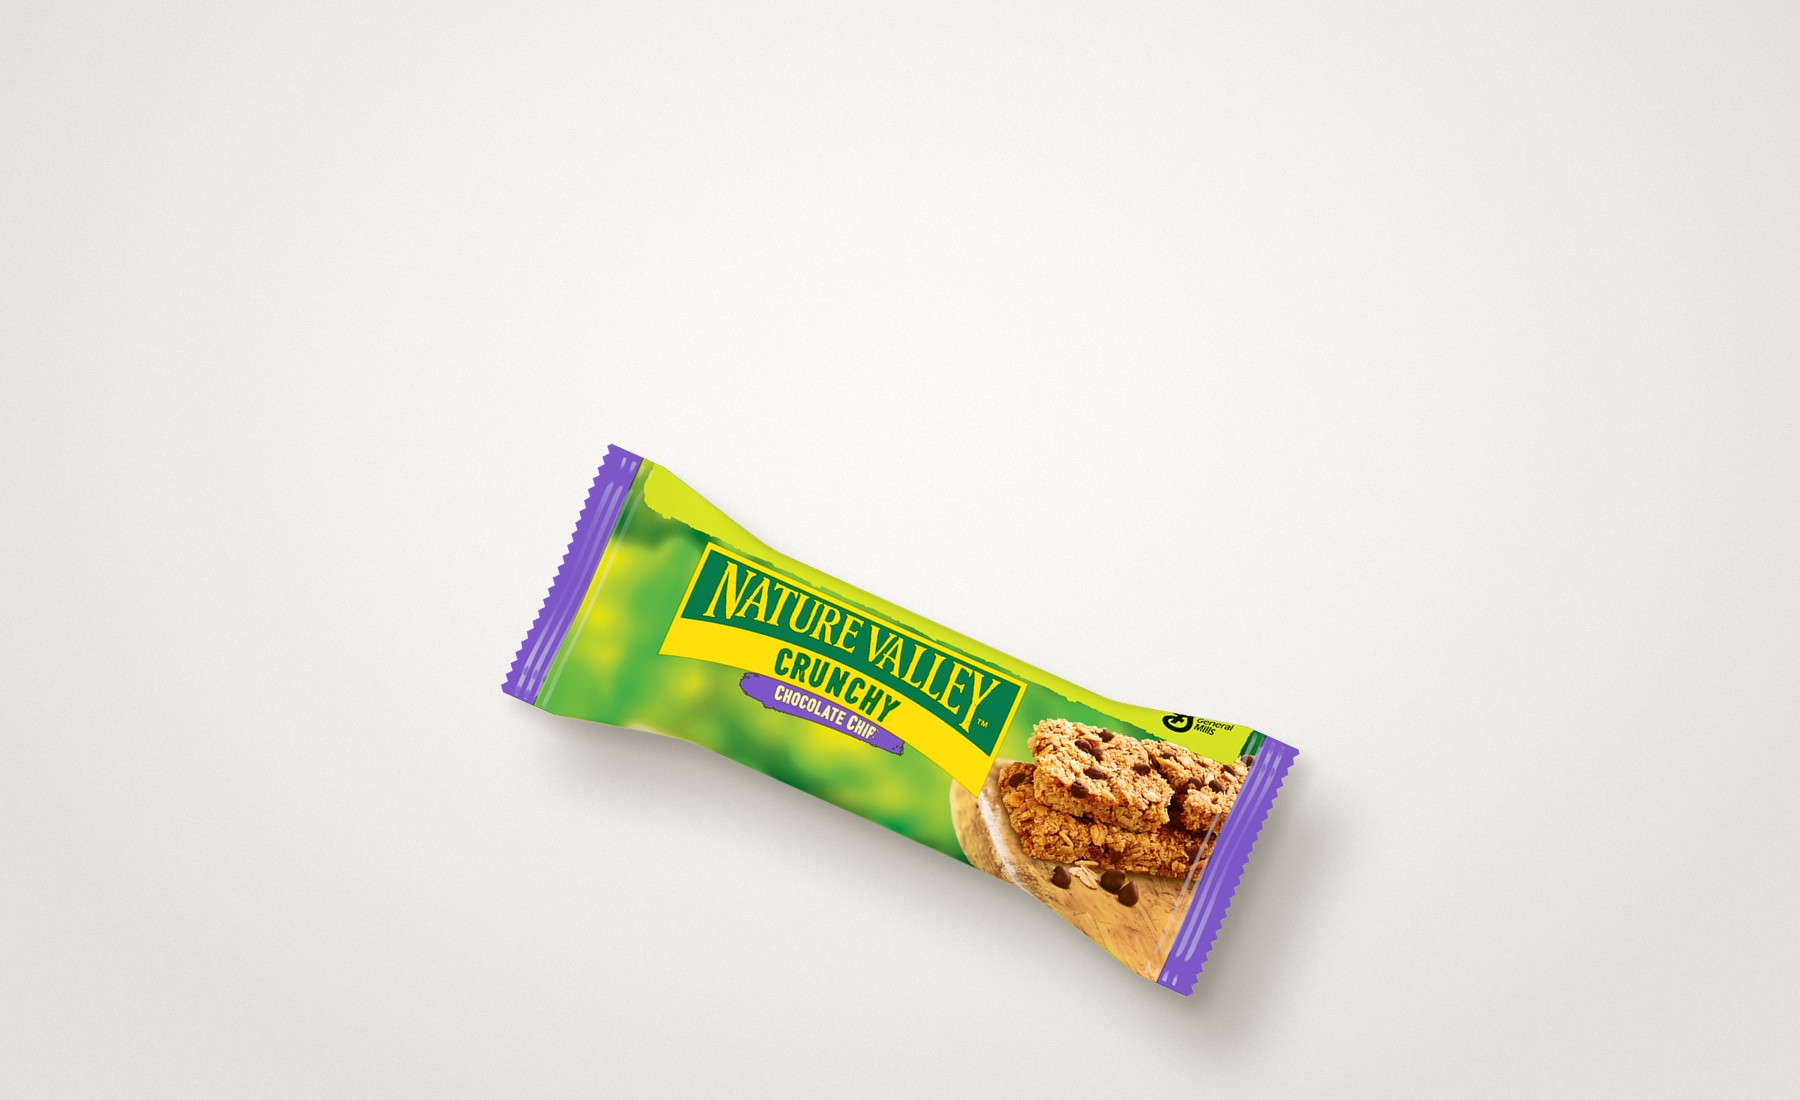
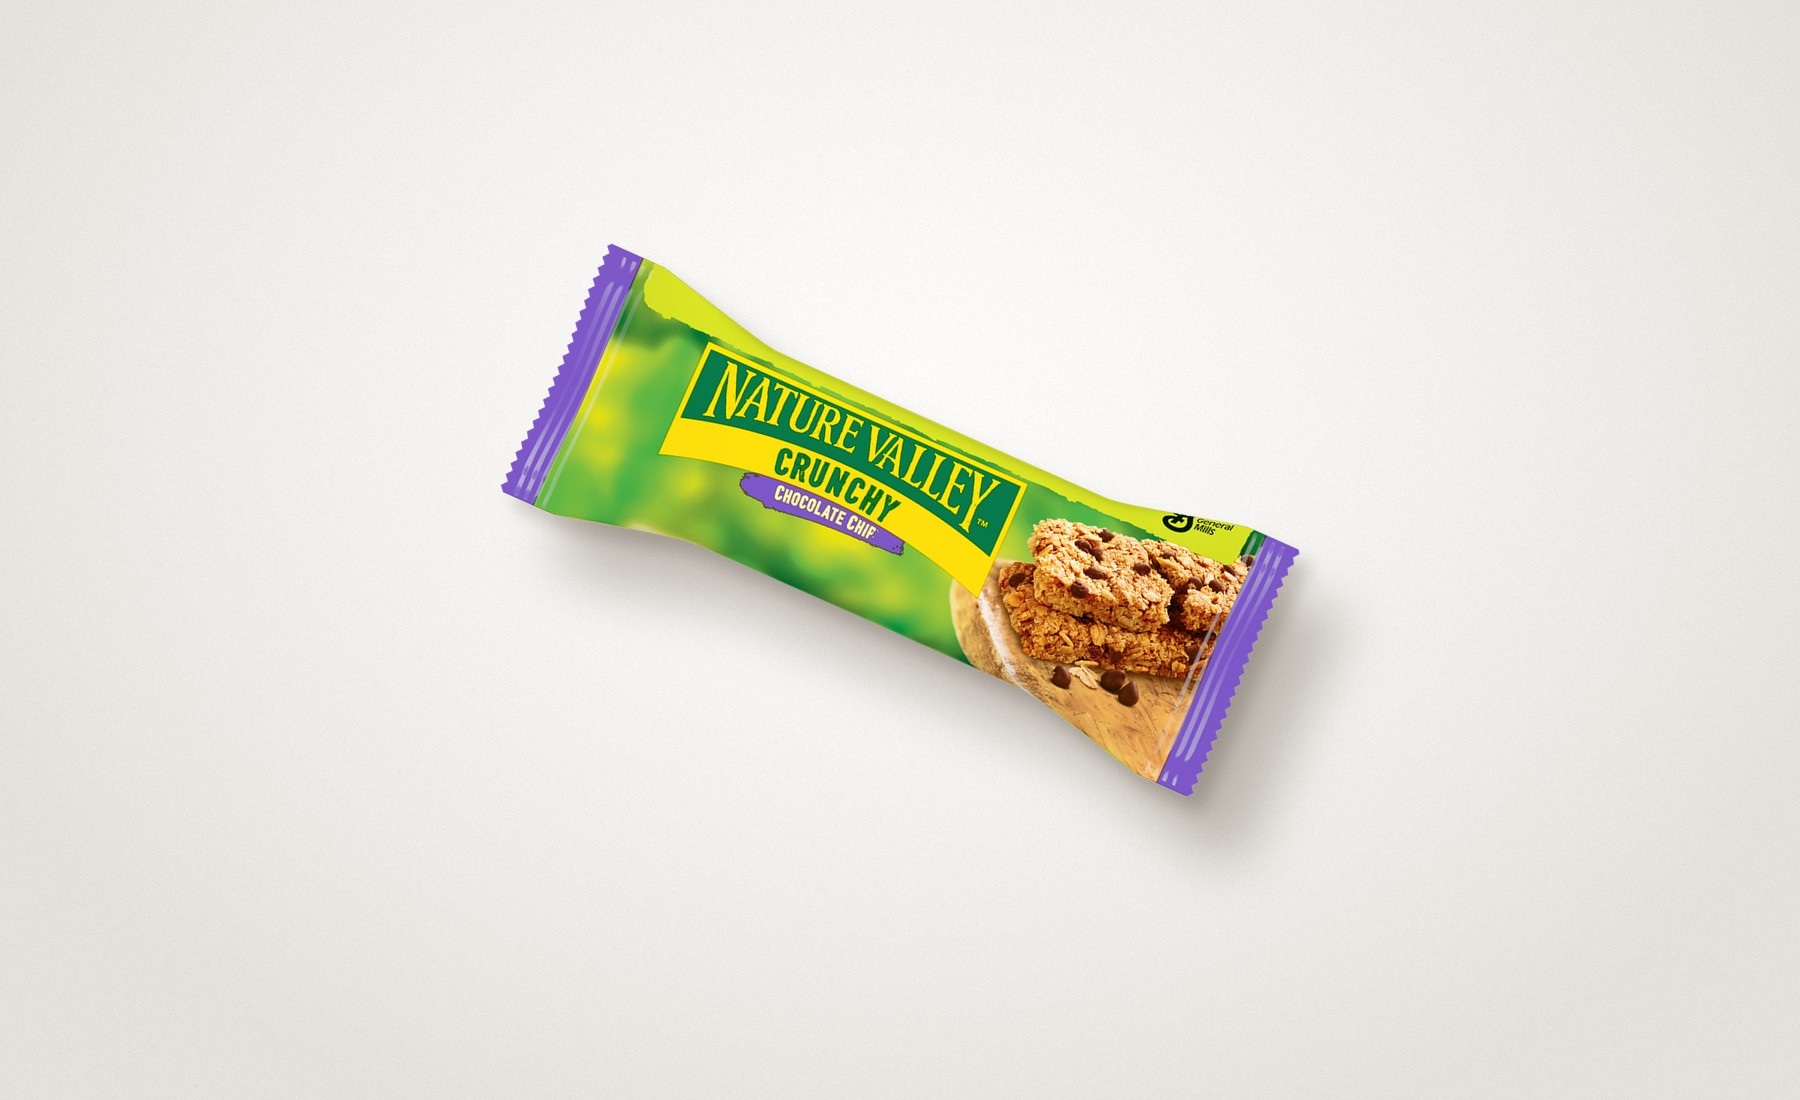
Sync goods assets

Changed region(s): [[0.28, 0.2164, 0.7467, 0.9582]]

diff --git a/medal/v2/page.html b/medal/v2/page.html
@@ -386,7 +386,7 @@ document.addEventListener('error',function(e){var i=e.target;if(!i||i.tagName!==
  <div class="wrap">
   <span class="tag">15KM · 28KM 트레일런 한정</span>
   <h2 id="yh-jk-t">2026 YHITF<br>트레일런 완주 기념 자켓</h2>
-  <p class="lead">15KM · 28KM 트레일런 완주 시,<br>완주를 기념하는 자켓을 받으실 수 있습니다.</p>
+  <p class="lead">15KM · 28KM 트레일런 완주 시,<br><strong>완주를 기념하는 자켓</strong>을 받으실 수 있습니다.</p>
   <figure class="hero"><img src="jk_mock.webp" alt="네이비 후드 자켓 여성용과 남성용. 왼쪽 가슴에 YHITF 로고, 오른쪽 소매에 FINISHER 프린트" width="1774" height="887" loading="lazy"><figcaption><span>여성</span><span>남성</span></figcaption></figure>
   <div class="det">
    <figure><div class="fl"><img src="jk_front.webp" alt="자켓 앞면 도안: 왼쪽 가슴 YHITF 로고, 소매 FINISHER" width="1000" height="1597" loading="lazy"></div><figcaption>FRONT</figcaption></figure>

diff --git a/medal/v2/tiles2.py b/medal/v2/tiles2.py
@@ -39,5 +39,5 @@ Image.fromarray(bg(PAL['blue']).astype(np.uint8)).save(D+'t_soon.jpg',quality=88
 # make('jk_men.png',D+'t_jacket.jpg','orange',h=880,rot=-4,bottom=1010)
 # 2026-10-23 rhythm pass (alternating tilt), run from /home/claude/work/goods:
 # tee(hi_front from tee2.ai) white h930 rot4 b1030 | bar2 orange w900 rot20 b900 | medal3d_hi blue h1180 rot3 b1040
-# bar1 white w760 rot-24 b1000 | hat_three orange h600 rot6 b860 | bag_front blue h840 rot-3 b990
+# bar1 white w760 rot-24 b800 (centred) | hat_three orange h600 rot6 b860 | bag_front blue h840 rot-3 b990
 # gaiter3 white w1200 rot0 b900 | jk_men orange h900 rot5 b1020 | hat_signpair(h4 side+back) orange w1420 rot0 b880 -> t_hat_sign.jpg
